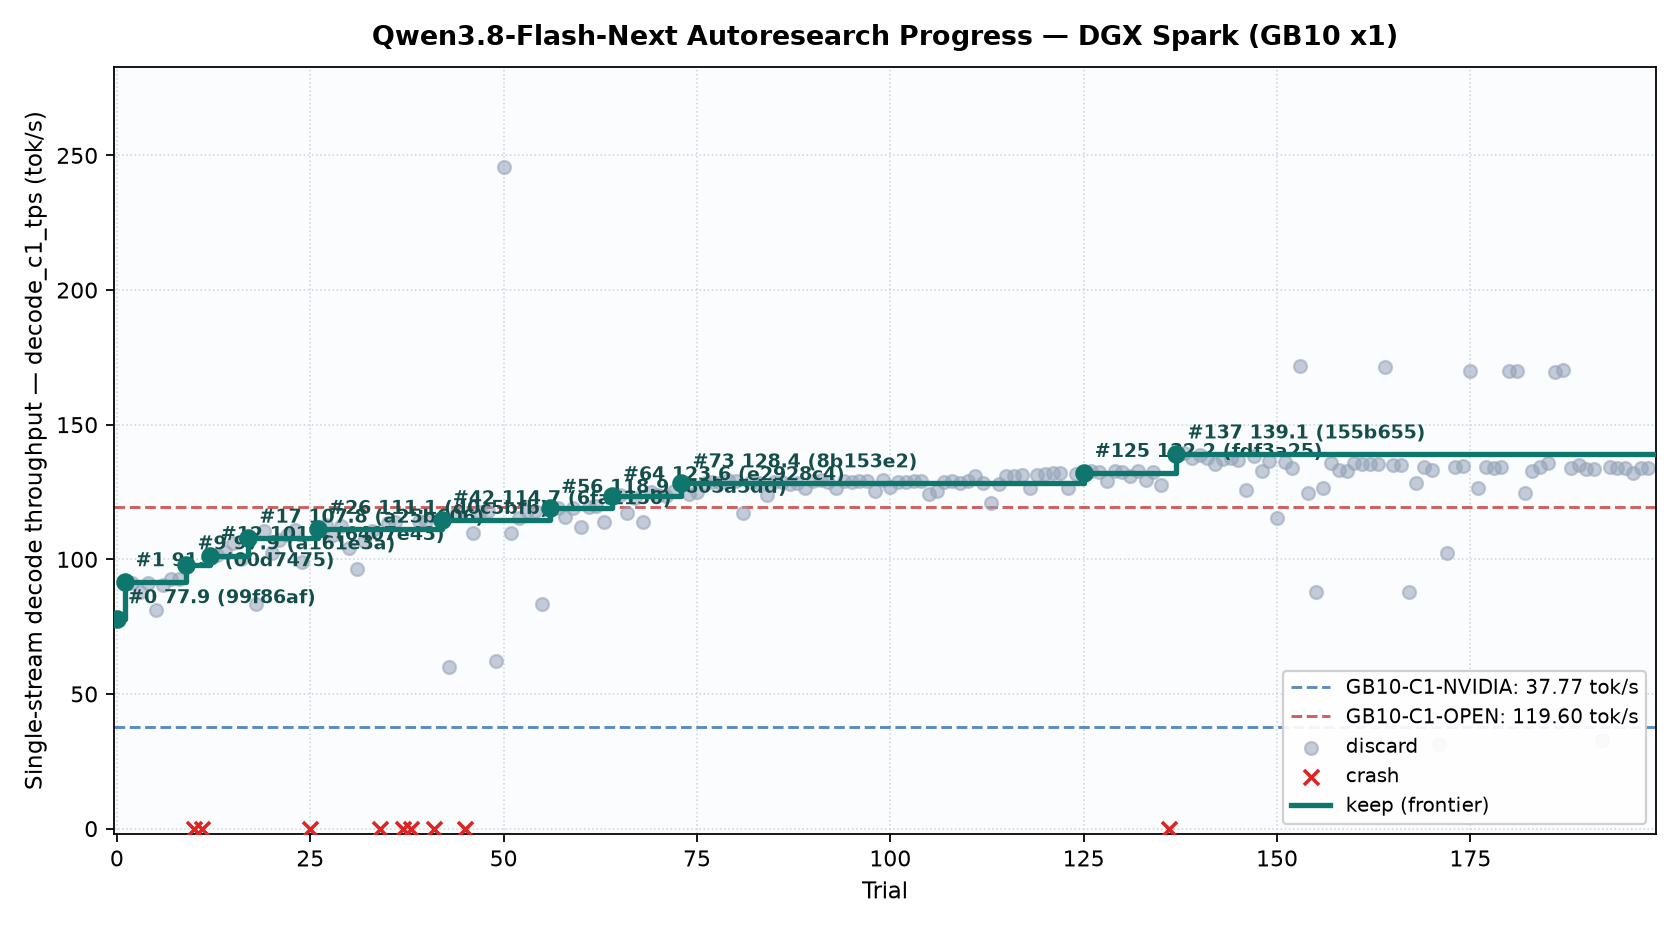
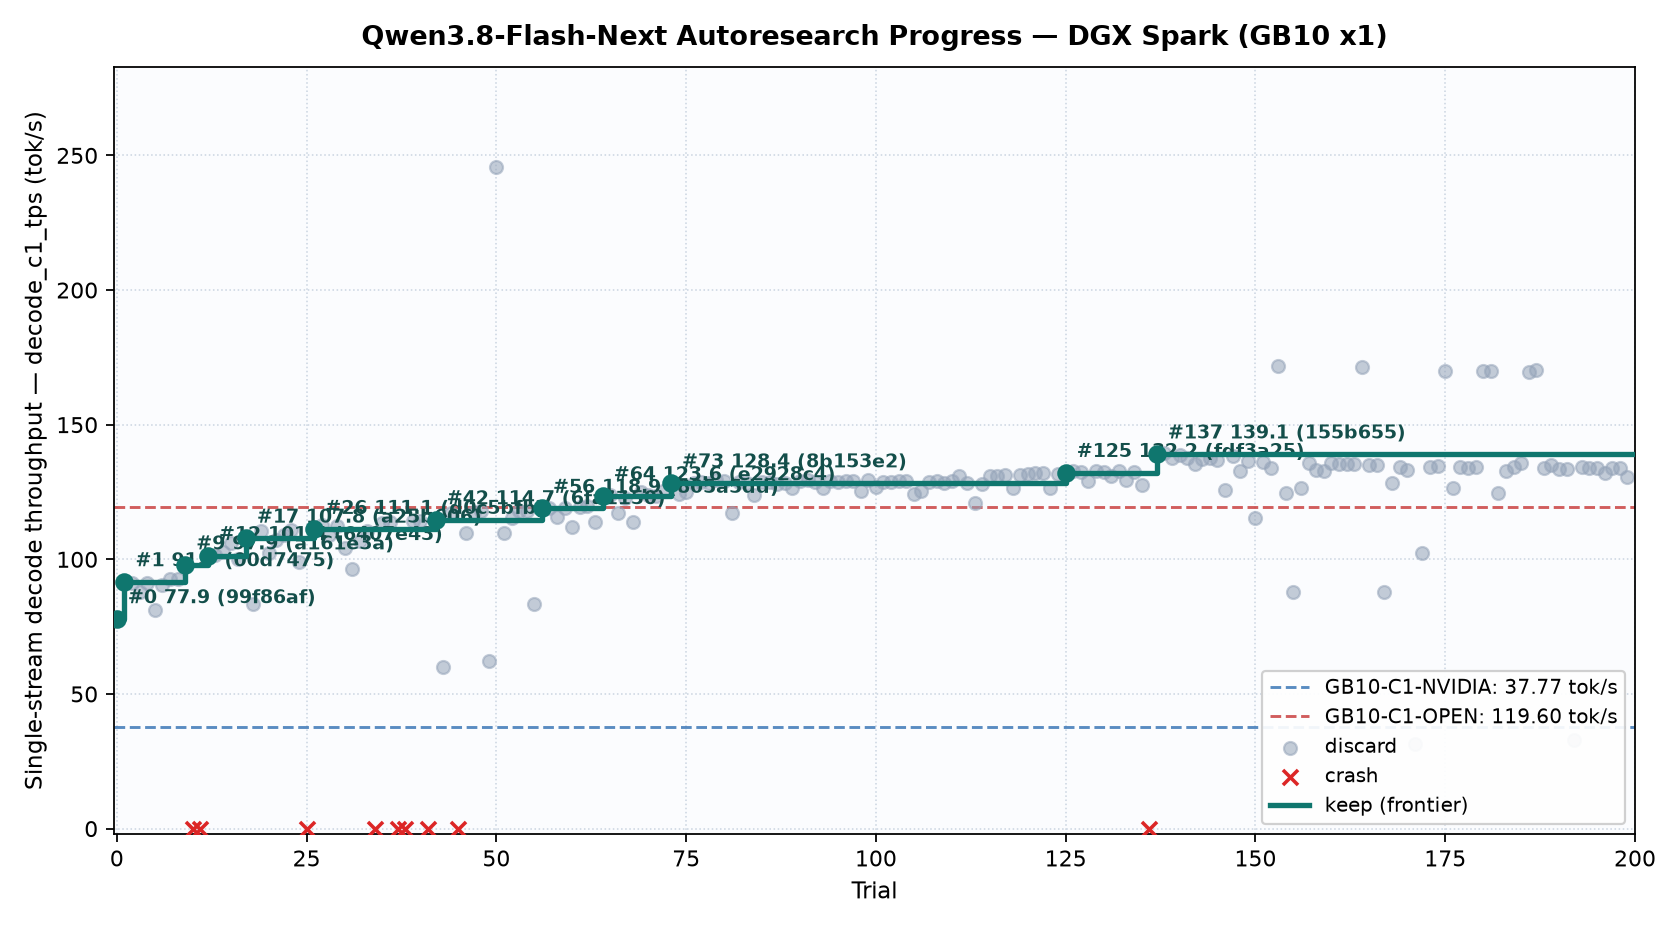
spark trial 199: discard

diff --git a/records/research-log.md b/records/research-log.md
@@ -228,3 +228,4 @@ Deprioritized: **3-bit expert weights** (Hibana +43% but GPQA -0.3, LCB -2.3; on
 | 2026-11-22 06:57 | 196 (new stack) | <https://github.com/vllm-project/vllm/pull/69065> | Checked releases, commits and PRs across all six engines. Upstream specializes GDN for 16-bit state on GB300. The retained GB10 implementation uses FP32. | Defer the dtype change. Alternate two shared tiles so the next tile publication barrier also protects reuse of the previous tile. Preserve arithmetic and storage precision. |
 | 2026-11-22 07:05 | 197 (new stack) | <https://github.com/ashhart/TensorFold/pull/3405> | Trial 196 recorded 132.20 C1 and 240.52 C8 (discard). Checked releases, commits and PRs for all six engines. TensorFold uses GPU draft selection for a different model on Metal. | Defer that implementation. Test using the existing disjoint-group lower bound directly to admit draft logit blocks. Keep exact token cutoff search and BF16 rescoring. |
 | 2026-11-22 07:14 | 198 (new stack) | <https://github.com/ashhart/TensorFold/commit/7358f5c4f705b8fe775dc5f61ef610b124c35a4f> | Trial 197 recorded 133.86 C1 and 241.29 C8 (discard). Checked six upstream release, commit and PR feeds. TensorFold varies fused CUDA readout tiles with device occupancy. | Test four-way parallel BF16 rescoring on the target shortlist, then reduce the partial winners by score and token ID. Retain the per-candidate dot product order. |
+| 2026-11-22 07:23 | 199 (new stack) | <https://github.com/sharar-project/hibana/blob/v0.1.0/hibana/engine/depth.py> | Trial 198 recorded 133.85 C1 and 242.31 C8 (discard). Rechecked releases, commits and PRs across six engines. Increasing marginal draft cost with depth regressed in trial 172. Trial 66 combined decreasing cost with several other changes. | Hibana item 3. Isolate a 4% decrease in marginal drafting cost per position in the calibrated stopping rule, retaining the proposal cap and target verification. |
